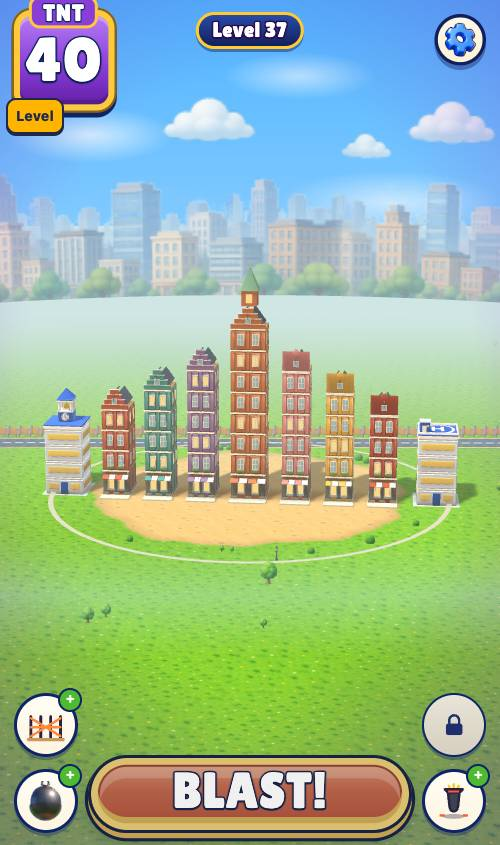
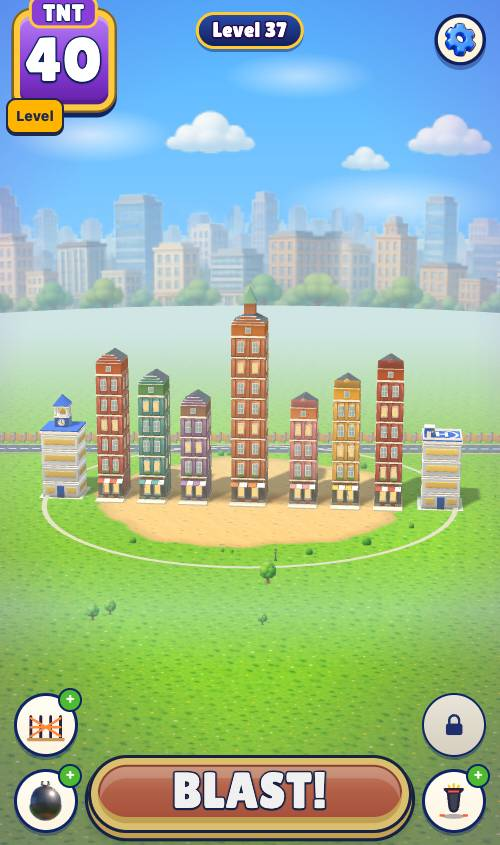
city-blast: L05 Glass Spine PASS (26 TNT, SH, core7 layered core); L04 real-body roofs (no more floating), 21 TNT; LEARNINGS: roof/decor and core lessons; closeup/float/hang checkers

diff --git a/city-blast/pipeline7/engine.js b/city-blast/pipeline7/engine.js
@@ -745,14 +745,21 @@ try{ (function(){
       // shop front: a striped awning and a sign board
       var g0 = sts[0].decks[0]; for(var i = 0; i < 4; i++) kq(g0, "box", i % 2 ? K.white : col, -hx + 0.55 + i*(2*hx - 1.1)/3, 3.25, hz + 0.6, (2*hx - 0.4)/4, 0.08, 1.2, 0, 0.35, 0);
       kd(g0, "box", K.wood, 0, 3.8, hz + 0.08, 2*hx - 0.6, 0.45, 0.08);
-      // the gable: stepped (even c) or bell (odd c), a hoist beam and a small attic window; a pitched roof behind it
-      var d = sts[sts.length - 1].decks[0], gh = P.gable || 3.2;
-      if((P.c || 0) % 2 === 0){ for(var k = 0; k < 4; k++){ var ww = 2*hx - k*(2*hx/4.4); kd(d, "box", col, 0, y + k*gh/4 + gh/8, hz - 0.15, ww, gh/4, 0.3); kd(d, "box", K.white, 0, y + (k + 1)*gh/4 - 0.04, hz - 0.15, ww + 0.08, 0.08, 0.36); } }
-      else { kd(d, "prism", col, 0, y + gh/2, hz - 0.15, 2*hx, gh, 0.3); kd(d, "dome", col, 0, y + gh - 0.1, hz - 0.15, 1.2, 0.8, 0.3); kd(d, "box", K.white, 0, y + 0.05, hz - 0.15, 2*hx + 0.1, 0.12, 0.36); }
-      kd(d, "box", K.wood, 0, y + gh*0.72, hz + 0.45, 0.16, 0.16, 0.9); kd(d, "box", K.iron, 0, y + gh*0.72 - 0.4, hz + 0.85, 0.04, 0.8, 0.04);
-      kd(d, "box", K.glass, 0, y + gh*0.4, hz + 0.02, 0.7, 0.8, 0.06); kd(d, "box", K.white, 0, y + gh*0.4, hz + 0.0, 0.85, 0.95, 0.04);
-      [-1, 1].forEach(function(sg){ kq(d, "box", K.slate, sg*hx/2, y + gh*0.45, -0.4, hx + 0.2, 0.22, 2*hz - 0.6, 0, 0, -sg*0.95); });
-      if(P.spire){ kd(d, "box", col, 0, y + gh + 1.2, 0, 2.4, 2.4, 2.4); kd(d, "lit", K.lit, 0, y + gh + 1.2, 1.22, 1.0, 1.4, 0.06); kd(d, "cone", K.copper, 0, y + gh + 4.2, 0, 2.8, 3.6, 2.8); kd(d, "box", K.gold, 0, y + gh + 6.4, 0, 0.1, 1.0, 0.1); }
+      // the roof is a REAL body (Khai 20/11: roofs floated after the fall when they were decor on the top floor): an attic block
+      // as wide and deep as the house; the gable (stepped for even c, bell for odd c), the hoist beam and the roof slopes are
+      // decor flush on THAT block, inside its outline, so they fall, tumble and land with it.
+      var gh = P.gable || 3.2, ah = gh*0.6, at = addBlock(0, y + ah/2, 0, 2*hx - 0.1, ah, 2*hz - 0.1, "wwall", {floor:n + 1}); at.tint = col;
+      var ay = y + ah;   // top of the attic block
+      if((P.c || 0) % 2 === 0){ for(var k = 0; k < 3; k++){ var ww = 2*hx - 0.4 - k*(2*hx/4.4), sh = (gh - ah)/3; kd(at, "box", col, 0, ay + k*sh + sh/2, hz - 0.2, ww, sh, 0.3); kd(at, "box", K.white, 0, ay + (k + 1)*sh - 0.04, hz - 0.2, ww + 0.08, 0.08, 0.34); } }
+      else { kd(at, "prism", col, 0, ay + (gh - ah)/2, hz - 0.2, 2*hx - 0.3, gh - ah, 0.3); kd(at, "dome", col, 0, ay + (gh - ah) - 0.05, hz - 0.2, 1.0, 0.6, 0.3); }
+      kd(at, "box", K.white, 0, y + 0.05, hz - 0.03, 2*hx, 0.12, 0.08); kd(at, "box", K.white, 0, ay - 0.05, hz - 0.03, 2*hx - 0.1, 0.1, 0.08);
+      kd(at, "box", K.glass, 0, y + ah*0.5, hz - 0.03, 0.7, 0.8, 0.06); kd(at, "box", K.white, 0, y + ah*0.5, hz - 0.04, 0.85, 0.95, 0.05);
+      kd(at, "box", K.wood, 0, y + ah*0.8, hz - 0.03, 0.16, 0.16, 0.12);
+      // slopes: two slate planes from the eaves (sides of the block) up to a ridge just above it (flush, never overhanging)
+      var rise = gh - ah, run = hx - 0.1, sl = Math.atan2(rise, run);
+      [-1, 1].forEach(function(sg){ kq(at, "box", K.slate, sg*run/2, ay + rise/2, -0.2, Math.hypot(run, rise), 0.18, 2*hz - 0.7, 0, 0, -sg*sl); });
+      kd(at, "box", K.slate, 0, ay + rise - 0.05, -0.2, 0.3, 0.18, 2*hz - 0.7);
+      if(P.spire){ kd(at, "box", col, 0, ay + rise + 0.9, -0.4, 1.8, 1.8, 1.8); kd(at, "cone", K.copper, 0, ay + rise + 3.0, -0.4, 2.1, 2.6, 2.1); kd(at, "box", K.gold, 0, ay + rise + 4.6, -0.4, 0.1, 0.8, 0.1); }
       if(P.bg) bgSet(n0, P.bg); return { w:2*hx + 0.6, d:2*hz + 2.4 };
     };
     // the warehouse at the end of the row: a long brick hall, 3 storeys, arched loading doors, a crane gable, a sawtooth roof
@@ -775,6 +782,58 @@ try{ (function(){
     };
   })();
 
+  // ==================================================================================================================
+  // g7 L05 "Glass Spine" (peel the shell, find the core). A glass office tower on a stone podium; the floors hang on a
+  // concrete core of 4 piers in the middle. The facade posts are slender (they carry almost nothing). The core's ground
+  // piers are massive RC (layer7: one layer per blast) and sit deep inside the podium, behind shop fronts and walls.
+  // Two identical glass pavilions flank it on the axis. Inspired by a modern glass tower with a concrete core (LANDMARKS #8).
+  // ==================================================================================================================
+  (function(){
+    if(typeof A1 === "undefined" || !A1.h || typeof M14 === "undefined") return;
+    var H = A1.h, kd = l6KdAdd, api = M14.api, kq = H.kq;
+    var K = { stone:0xD8D2C4, stoneD:0x9A9384, core:0x8E9196, glass:0x86B7D6, glassD:0x5E8FB3, frame:0x3E4A5A, white:0xF4F6F8, lit:0xFFE7A8, green:0x6FA86A, wood:0x8A5A33, gold:0xE8B23A };
+    var FN = { "z+":[0, 1], "z-":[0, -1], "x+":[1, 0], "x-":[-1, 0] };
+    function onF(b, g, c, u, v, w, h, t){ var n = FN[b.a1face]; if(!n) return; var X = !!n[0]; t = t || 0.06; var d = (X ? b.half[0] : b.half[2]) + t/2;
+      kd(b, g, c, b.spawn.x + (X ? n[0]*d : u), b.spawn.y + v, b.spawn.z + (X ? u : n[1]*d), X ? t : w, h, X ? w : t); }
+    var bgSet = function(n0, g){ for(var q = n0; q < blocks.length; q++) if(!blocks[q].anchor) blocks[q].bg = g; };
+    var DECK = MEMBERS.a1lite ? "a1lite" : "mdC";
+    // the core above the ground: concrete that peels one layer per blast (L.layer7 lists it) but counts as down once it falls
+    MEMBERS.core7 = Object.assign({}, MEMBERS.concrete, { hp:200, color:K.core }); MATS.core7 = MATS.concrete;
+    V5_PARTS.g7spine = function(P){
+      var n0 = blocks.length, ph = P.ph || 9, th = P.th || 6, cw = P.cw || 1.5, cx = P.cr || 1.7, n = P.n || 9, pod = P.pod == null ? 2 : P.pod, y = 0, s, sts = [];
+      var core = [[-cx, -cx], [cx, -cx], [-cx, cx], [cx, cx]];
+      var base = addBlock(0, -0.25, 0, 2*Math.max(ph, th) + 2, 0.5, 2*Math.max(ph, th) + 2, "base", {anchor:true}); kd(base, "box", K.stoneD, 0, 0.1, 0, 2*Math.max(ph, th) + 1.6, 0.2, 2*Math.max(ph, th) + 1.6);
+      for(s = 0; s < pod + n; s++){ var isPod = s < pod, hh = isPod ? 4.6 : 3.6, hx = isPod ? ph : th;
+        var inner = P.noCore ? [] : core.map(function(q){ return [q[0], q[1], cw]; });
+        var st = H.boxSt({ y0:y, h:hh, hx:hx, hz:hx, nx:isPod ? 5 : (P.noCore ? 3 : 4), nz:isPod ? 5 : (P.noCore ? 3 : 4), pw:isPod ? 0.9 : 0.55, mw:isPod ? 0.8 : 0.45, fl:s, MT:api.mat("concrete"), deck:DECK, skin:isPod ? "wall" : "glass", wall:"cpan", split:isPod ? [3, 3] : [2, 2], dk:0.4, inner:inner,
+          tp:isPod ? K.stoneD : K.frame, td:K.stoneD, tw:K.stone });
+        sts.push(st);
+        st.piers.forEach(function(p){ if(p.gi >= 20){ p.core7 = 1; p.tint = K.core; if(s === 0 && P.hrc !== false){ p.key = "hrc"; p.def = MEMBERS.hrc; p.hp = p.hp0 = MEMBERS.hrc.hp; } else if(P.hrc !== false){ p.key = "core7"; p.def = MEMBERS.core7; p.hp = p.hp0 = MEMBERS.core7.hp; } } });   // upper core: core7 (layered, soft)
+        if(isPod){ st.walls.forEach(function(w, k){ onF(w, "box", K.stoneD, 0, -hh*0.44, 2*Math.max(w.half[0], w.half[2]), 0.35, 0.1);
+            if(s === 0){ onF(w, "box", K.glassD, 0, 0.1, 2.2, 2.8, 0.08); onF(w, "lit", K.lit, 0, -0.2, 1.8, 1.8, 0.1); onF(w, "box", [0xC8463E, 0x3F7FBF, 0x5FA35F, 0xE0A23A][k % 4], 0, 1.75, 2.4, 0.5, 0.12); }
+            else { for(var q = -1; q <= 1; q += 2) onF(w, "box", K.glass, q*0.7, 0.2, 0.9, 2.2, 0.08); } });
+          kd(st.decks[0], "box", K.white, 0, y + hh - 0.15, 0, 2*hx + 0.4, 0.3, 2*hx + 0.4); }
+        else { st.panes.forEach(function(g){ H.paneDress(g, y, hh, s); });
+          if(s === pod) st.decks.forEach(function(d){ kd(d, "ibush", K.green, d.spawn.x*1.35, y + 0.5, d.spawn.z*1.35, 1.2, 0.9, 1.2); });   // podium roof garden
+          kd(st.decks[0], "box", K.frame, 0, y + hh - 0.12, 0, 2*hx + 0.15, 0.22, 2*hx + 0.15); }
+        // the core inside: dark concrete walls (decor on the core piers) with a lift door, so a broken facade shows it
+        var cp = st.piers.filter(function(p){ return p.core7; }); if(P.noCore && s === 0) st.panes.forEach(function(g){ kd(g, "lit", K.lit, g.spawn.x, y + 1.2, g.spawn.z, 0.6, 0.6, 0.6); });
+        cp.forEach(function(p, k){ var sx = Math.sign(p.spawn.x), sz = Math.sign(p.spawn.z); kd(p, "box", K.core, p.spawn.x - sx*cx/2, y + (hh - 0.4)/2, p.spawn.z, cx, hh - 0.5, 0.25); });
+        y += hh;
+      }
+      // crown: a set-back glass lantern, a mast with a light
+      var d = sts[sts.length - 1].decks[0]; kd(d, "box", K.glassD, 0, y + 1.3, 0, 2*th - 3, 2.6, 2*th - 3); kd(d, "box", K.frame, 0, y + 2.7, 0, 2*th - 2.6, 0.25, 2*th - 2.6);
+      kd(d, "box", K.frame, 0, y + 5.0, 0, 0.18, 4.6, 0.18); kd(d, "lit", 0xFF5A4A, 0, y + 7.4, 0, 0.35, 0.35, 0.35);
+      // podium entrance: a canopy and steps on the front, planters
+      var g0 = sts[0]; kd(g0.decks[0], "box", K.frame, 0, 3.6, ph + 1.2, 6, 0.2, 2.4); for(var i = 0; i < 3; i++) kd(base, "box", K.stone, 0, 0.1 + i*0.12, ph + 0.5 + i*0.35, 7 - i*0.6, 0.2, 0.4);
+      [-1, 1].forEach(function(sx){ kd(base, "box", K.stoneD, sx*4.6, 0.4, ph + 1.0, 1.4, 0.8, 1.4); kd(base, "ibush", K.green, sx*4.6, 1.1, ph + 1.0, 1.3, 0.9, 1.3); });
+      if(P.bg) bgSet(n0, P.bg); LV7.g7info = Object.assign(LV7.g7info || {}, { spine:{ top:y, members:blocks.length - n0 } });
+      return { w:2*Math.max(ph, th) + 2, d:2*Math.max(ph, th) + 2 };
+    };
+  })();
+
+  LV7.kdGap = function(){ return typeof l6KdGap === 'function' ? l6KdGap() : null; };
+  LV7.closeUp = function(x, y, z, d, yw, pt){ focus.set(x, y, z); focusY = y; camFocusY = y; dist = d; camDist = d; zoomK = zoomT = 1; if(yw != null){ baseYaw = yaw = yw; } if(pt != null) pitch = pt; for(var i = 0; i < 30; i++) updateCamera(0.1); camera.updateMatrixWorld(true); return [camera.position.x, camera.position.y, camera.position.z]; };
   // test hook: turn the view a quarter at a time, like the player's swipe (k = 0..3), and settle the camera at once
   LV7.view = function(k){ var y0 = (L && L.yaw != null) ? L.yaw : 0.55; baseYaw = y0 + (k || 0)*QUARTER; yaw = baseYaw; for(var i = 0; i < 40; i++) updateCamera(0.1); yaw = baseYaw; updateCamera(0.001); camera.updateMatrixWorld(true); return baseYaw; };
 

diff --git a/city-blast/pipeline7/tester.js b/city-blast/pipeline7/tester.js
@@ -326,6 +326,46 @@
     const keep = Math.round(100 * (T().collateral() || 0));
     return { log: __blast.lv7.log.filter(x => /dom7/.test(x)).join(','), seq: steps.map(s => s.part + (s.f[0] ? (s.f[0] > 0 ? '>' : '<') : (s.f[1] > 0 ? 'v' : '^'))).join(' '), pct: Math.round(r.pct * 100), keep, used, waves: waves.join('>'), notes: notes.join('; '), win: r.pct >= L.target && keep <= Math.round(100 * (L.keepMax || 0.05)) };
   }
-  window.P7 = { seqT, reach4, keepT, aim, oneWave, metrics, oneBomb, lazy, fair, massStanding, allFoot, footOnly, curve };
+
+  // ---- coreT (L05 "peel the shell, find the core"). mode 'core': blast the podium's ground walls/shop fronts (6 a blast,
+  // nearest the core first) until the core's ground piers can be tapped, then 1 TNT on every reachable core pier a blast
+  // until the tower's top drops 8 m, then clean up. mode 'shell': every blast, 6 TNT on what a player sees (facade posts,
+  // glass, walls, decks) of the tower, NEVER the core: must not win.
+  function coreT(idx, part, budget, mode, stop){ try{ return coreT0(idx, part, budget, mode, stop); }catch(e){ if(e && e.stop7) return { waves: e.stop7 }; throw e; } }
+  function coreT0(idx, part, budget, mode, stop){
+    fresh(idx); const L = LV()[idx]; let used = 0, r = { pct: 0 }; const waves = [], notes = [];
+    const fire = tag => { T().fire(); r = T().run(30); waves.push(tag + Math.round(r.pct * 100)); if(stop && waves.length >= stop) throw { stop7: waves.join('>') }; };
+    const isCore = b => /^(hrc|rc)$/.test(b.key) && Math.abs(b.sx - cx0) < 3 && Math.abs(b.sz - cz0) < 3;
+    const A0 = INF().filter(b => b.bid === part && !b.an); const cx0 = A0.reduce((a, b) => a + b.sx, 0) / A0.length, cz0 = A0.reduce((a, b) => a + b.sz, 0) / A0.length;
+    const top = () => Math.max(...INF().filter(b => b.bid === part && !b.dead && !b.an).map(b => b.y)), y0 = top();
+    if(mode === 'core'){
+      for(let w = 0; w < 4 && used < budget; w++){
+        const pk = reach4(), I = INF(); const cl = I.filter(b => b.bid === part && !b.dead && b.f === 0 && isCore(b));
+        if(cl.filter(b => pk.has(b.i)).length >= Math.min(2, cl.length)){ notes.push('core reachable after ' + w + ' peel'); break; }
+        const near = I.filter(b => tgt(b) && !b.dead && b.bid === part && pk.has(b.i) && b.f === 0 && !isCore(b) && b.h > 0.5).sort((a, b) => Math.hypot(a.x - cx0, a.z - cz0) - Math.hypot(b.x - cx0, b.z - cz0));
+        if(!near.length) break; const pick = []; for(const b of near){ if(pick.length >= Math.min(6, budget - used)) break; if(pick.some(u => Math.hypot(u.x - b.x, u.z - b.z) < 1.5)) continue; pick.push(b); }
+        pick.forEach(b => { T().charge('tnt', b.i, 0, 1, 0); used++; }); fire('peel');
+      }
+      for(let w = 0; w < 5 && used < budget; w++){
+        const pk = reach4(), cl = INF().filter(b => b.bid === part && !b.dead && b.f === 0 && isCore(b) && pk.has(b.i));
+        if(!cl.length){ notes.push('no core pier reachable'); break; }
+        cl.forEach(b => { if(used < budget){ T().charge('tnt', b.i, Math.sign(b.x - cx0) || 1, 0, 0); used++; } }); fire('core');
+        if(top() < y0 - 8) break;
+      }
+      notes.push('top ' + y0.toFixed(0) + '>' + top().toFixed(0));
+    }
+    const PC = {}; INF().filter(b => b.bid && !b.an).forEach(b => { const c = PC[b.bid] = PC[b.bid] || [0, 0, 0]; c[0] += b.sx; c[1] += b.sz; c[2]++; });
+    const coreOf = b => { const c = PC[b.bid]; if(!c) return 0; return (Math.abs(b.sx - c[0]/c[2]) < 2.2 && Math.abs(b.sz - c[1]/c[2]) < 2.2 && b.h > 1.2 && b.st) ? 1 : 0; };
+    for(let w = 0; w < 10 && used < budget && r.phase !== 'done'; w++){
+      const pk2 = reach4();
+      const left = INF().filter(b => tgt(b) && !b.dead && b.bid && pk2.has(b.i) && (b.st || b.y > 1.5) && b.h > 0.3 && !(mode === 'shell' && isCore(b))).sort((a, b) => mode === 'shell' ? (b.y - a.y) : ((coreOf(b) - coreOf(a)) || (b.st - a.st) || (LV7hard(b) - LV7hard(a)) || (Math.abs(a.x - cx0) < 3 && Math.abs(a.z - cz0) < 3 ? 0 : 0) || (b.h - a.h) || (b.m - a.m)));
+      if(!left.length) break;
+      const pick = []; for(const b of left){ if(pick.length >= Math.min(6, budget - used)) break; if(pick.some(u => Math.hypot(u.x - b.x, u.y - b.y, u.z - b.z) < 2.5)) continue; pick.push(b); }
+      pick.forEach(b => { const k = b.key === 'hrc' ? 1 : 1; for(let q = 0; q < k && used < budget; q++){ T().charge('tnt', b.i, 0, 1, 0); used++; } });
+      fire(mode === 'shell' ? 's' : 'c');
+    }
+    return { mode, pct: Math.round(r.pct * 100), used, waves: waves.join('>'), notes: notes.join('; '), win: r.pct >= L.target };
+  }
+  window.P7 = { coreT, seqT, reach4, keepT, aim, oneWave, metrics, oneBomb, lazy, fair, massStanding, allFoot, footOnly, curve };
 
 })();

diff --git a/city-blast/LEARNINGS.md b/city-blast/LEARNINGS.md
@@ -71,6 +71,11 @@ File này là **bộ nhớ chung** của mọi máy và mọi agent làm màn Ci
 - **Kẽ hở "nổ một lần"**: hai chuỗi cùng đổ vào một lúc kẹp tháp đứng yên mà vẫn thắng. Chân nhà khởi động phải là hrc (cần nhiều lần nổ).
 - **Bộ test treo**: không có lệnh `timeout` trên Mac. Dùng `perl -e 'alarm 2700; exec @ARGV' node run.mjs`. **Không chạy 2 Chrome headless song song**: chậm và dễ treo.
 - **Đồng bộ (20/11):** máy ảo đã sửa `cdp.mjs`, còn Mac lại copy từ thư mục cũ sang repo nên suýt ghi đè sửa đổi đó. Từ nay **làm thẳng trong repo** (Mac: `~/Desktop/games/blast/{levels-gd,pipeline7}` là symlink vào repo) và **`git pull --rebase` trước mỗi lần push**. Tester trên Linux: `CHROME=<đường dẫn chromium>` (máy ảo: `/opt/pw-browsers/chromium-1243/chrome-linux64/chrome`).
+- **Mái lơ lửng (Khai 20/11, Màn 4):**
+  - Lỗi: mái dốc và đầu hồi cao hơn 3 m chỉ là decor gắn vào sàn trên cùng nên trông hở ngay lúc mở màn, và nhô ra không trung khi nhà đổ.
+  - Luật mới: **mái là một khối thật** (tầng áp mái, `wwall`), còn decor mái phải **nằm sát, trong đường bao của khối nó gắn vào**. Không để decor lớn chìa ra khỏi khối chủ.
+  - Kiểm bằng `pipeline7/closeup.mjs` (camera cận cảnh) và `floatcheck.mjs` (khe hở tĩnh). Dùng `hangcheck.mjs` để tìm khối còn treo trên cao sau khi nổ.
+- **Lõi nhiều tầng (Màn 5):** trụ lõi tầng trên mà dùng `rc` (khối cứng) thì nằm trong đống đổ nát vẫn bị tính là "còn đứng", nên không thắng nổi. Còn dùng bê tông thường thì 1 lần nổ cắt ngang thân tháp là xong. Giải pháp là key `core7`: bóc 1 nấc mỗi lần nổ (layer7) nhưng tính là đã đổ khi rơi xuống.
 - `T.chargeHosts` không tồn tại; dùng `__blast.chargeHosts()`, `__blast.members()`, `__blast.test.pickAt(x, y)`.
 
 ## 6. Trạng thái các màn (20/11)
@@ -80,8 +85,8 @@ File này là **bộ nhớ chung** của mọi máy và mọi agent làm màn Ci
 | 1 | Five Eaves (chùa 5 mái) | làm rơi trước, phá sau | PASS, 37 TNT, Khai duyệt |
 | 2 | Watch Keep | ngắm hướng đổ, chuỗi đè sảnh, kho thuốc súng | PASS, 25 TNT |
 | 3 | Grand Stage (nhà hát) | giữ toà xanh: dỡ sảnh và khán phòng, tháp đổ dọc trục | PASS, 24 TNT, bố cục v2 đối xứng |
-| 4 | Canal Row (dãy nhà phố) | domino đối xứng: phá tháp giữa trước, đẩy hai dãy vào trong | PASS, 24 TNT, SH |
-| 5 | (kế hoạch) bóc vỏ thấy lõi (layer7, che khuất) | | chưa làm |
+| 4 | Canal Row (dãy nhà phố) | domino đối xứng: phá tháp giữa trước, đẩy hai dãy vào trong | PASS, 21 TNT, SH; mái là khối thật |
+| 5 | Glass Spine (tháp kính lõi bê tông) | bóc vỏ bệ, đục lõi 3 lần nổ | PASS, 26 TNT, SH |
 
 Link test (artifact, private): https://claude.ai/artifact/CDNLd5gsjLaTaPGT7W4pes. Không sửa artifact chính W6863… khi chưa có OK của Khai.
 

diff --git a/city-blast/levels-gd/L05/1-GD-SPEC.md b/city-blast/levels-gd/L05/1-GD-SPEC.md
@@ -1,0 +1,30 @@
+# Màn 5: "Glass Spine", bóc vỏ thấy lõi (bước 1, GD)
+
+**Bài học:** cái nhìn thấy (kính, cột mặt ngoài) **không giữ gì cả**. Cả toà treo trên **một lõi bê tông 4 trụ** giấu sâu trong bệ. Phải bóc vỏ bệ để thấy lõi, rồi **đục lõi qua 3 lần nổ** (mỗi lần nổ chỉ bóc 1 nấc).
+
+**Cảm hứng:** toà văn phòng kính hiện đại có lõi bê tông (#8): mặt dựng kính khung tối, sàn mỏng, vương miện kính lùi vào, cột ăng-ten có đèn đỏ. Bệ đá 2 tầng có cửa hàng (biển màu), mái bệ có vườn. Không lấy công trình cụ thể nào.
+
+## Bố cục (có trật tự)
+- Một trục giữa: tháp kính 9 tầng trên bệ đá 18 × 18 m. Tổng cao khoảng 41 m.
+- Hai bên là **hai nhà kính 3 tầng giống hệt nhau**, cách bệ đều 5 m, mặt tiền thẳng hàng.
+
+| Toà | Kết cấu | Vai |
+|---|---|---|
+| Tháp (A) | cột mặt ngoài mảnh (bê tông 1 TNT); **lõi 4 trụ** ở giữa; trụ lõi tầng trệt là **hrc 3 nấc** (layer7); bệ có vách và mặt cửa hàng che lõi | chính |
+| Nhà kính trái/phải | cột mảnh, không lõi | bối cảnh, dễ phá; tháp sụp sẽ đè một bên |
+
+## Khoảnh khắc nhận ra
+1. Phá kính và cột mặt ngoài nhiều lần: toà vẫn đứng (tester: 4–58%).
+2. Vỡ kính thì thấy **khối lõi xám** chạy suốt chiều cao ở giữa.
+3. Trụ lõi ở chân nứt dần qua từng lần nổ, không sập ngay.
+
+## Wow
+Lần nổ thứ ba vào lõi: cả tháp kính 41 m sụp thẳng xuống bệ, kính văng khắp quảng trường, đè luôn nhà kính bên cạnh (từ 5% lên 80% trong một lần nổ).
+
+## Tester (`coreTest`)
+| Bài | Ngưỡng |
+|---|---|
+| Đúng: bóc bệ, đục lõi 3 lần, dọn | thắng |
+| Sai: chỉ phá vỏ (kính, cột, sàn), không bao giờ đụng lõi | thua |
+| oneBomb / allFoot / footOnly / oneWave | < 70 / 80% |
+| Bậc | SH |

diff --git a/city-blast/levels-gd/LEVEL-PROCESS.md b/city-blast/levels-gd/LEVEL-PROCESS.md
@@ -169,7 +169,7 @@ Câu chuyện chung của cả gói là **nổ từ từ, mỗi lần nổ có m
 | **2** | **Ngắm hướng đổ:** quật tháp lên toà đích mà TNT không phá được | tip, **hit7** | tháp canh pháo đài | đổ sai hướng (về 3 phía còn lại) thì < 80% |
 | 3 ✅ | **Tránh toà xanh:** nổ từng ít một, kéo toà đổ ra xa toà xanh | keep6 sát bên, tip | nhà hát kiểu Pháp thuộc | oneWave và "nổ to một lần" đều làm hư toà xanh nên thua; nổ từng phần thì thắng |
 | 4 ✅ | **Đổ dây chuyền:** đổ toà đầu, nó quật toà thứ hai, toà thứ hai quật toà thứ ba | hit7 ở chân các toà sau, tip | dãy nhà phố cổ | bắt đầu sai đầu dãy thì không thắng |
-| 5 | **Bóc vỏ thấy lõi:** vỏ ngoài che lõi; lõi mỗi lần nổ chỉ bóc một lớp | layer7, che khuất | hội trường mái vỏ | lõi phải qua ≥ 3 lần nổ |
+| 5 ✅ | **Bóc vỏ thấy lõi:** vỏ ngoài che lõi; lõi mỗi lần nổ chỉ bóc một lớp | layer7, che khuất | hội trường mái vỏ | lõi phải qua ≥ 3 lần nổ |
 | 6 | **Tổng hợp:** kíp nổ chỉ có n chỗ, có toà xanh, có khối phải rơi trước | cap7, keep6, drop7 | thành cổ, cổng pháo đài | mọi bài trên |
 
 Thứ tự công trình có thể đổi ở bước 1 của từng màn, nhưng bài học giữ nguyên.

diff --git a/city-blast/levels-gd/L05/L05-SUMMARY.md b/city-blast/levels-gd/L05/L05-SUMMARY.md
@@ -1,0 +1,13 @@
+# Màn 5 "Glass Spine": kết quả tester (run-b, 26 TNT, bậc SH): PASS
+
+| Bài | Kết quả |
+|---|---|
+| 1 bom tốt nhất | 3% |
+| Toàn bộ bom ở chân | 35% |
+| Chỉ nổ chân, nhiều đợt | 37% |
+| Đặt hết bom nổ một lần | 31% |
+| **Đúng:** bóc bệ (1 lần nổ), đục 4 trụ lõi (3 lần nổ), dọn | **86%**, 24 TNT, 5 đợt; lần nổ lõi thứ 3 đẩy điểm từ 5% lên 80% |
+| Sai: chỉ phá vỏ (kính, cột mặt ngoài, sàn), không bao giờ đụng lõi | 15%: thua |
+| Máy chơi mù | **thắng 3/3** (dư 0–5 TNT): nó ưu tiên khối cứng nên tự tìm ra lõi. Màn khó nhưng công bằng. Nếu người chơi thật thấy dễ, siết bớt bom. |
+
+Key mới `core7`: trụ lõi tầng trên bóc 1 nấc mỗi lần nổ (layer7), nhưng tính là đã đổ khi rơi.
